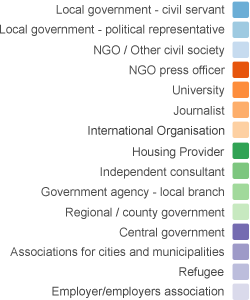
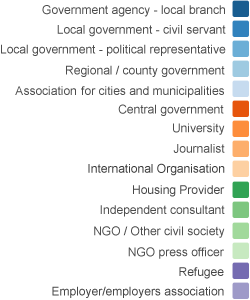
fixed text in pie chart legend and changed piechart colors

Changed region(s): [[0.0, 0.0, 1.0, 1.0], [0.028, 0.69, 0.896, 0.87]]

diff --git a/index.html b/index.html
@@ -757,8 +757,12 @@ var widthpie = 300,
     //radiuspie = Math.min(widthpie, heightpie) / 2;
 	radiuspie = 110;
 
-var colorpie = d3.scale.category20c();
+var colorpie2 = d3.scale.category20c();
 //var colorsun = d3.scale.category20c();
+
+var colorpie = d3.scale.ordinal()
+    .domain([0,1,2,3,4,5,6,7,8,9,10,11,12,13,14,15,16,17,18,19])
+    .range(["#185d90","#3182bd", "#6baed6", "#9ecae1", "#c6dbef", "#e6550d", "#fd8d3c", "#fdae6b", "#fdd0a2", "#31a354", "#74c476", "#a1d99b", "#c7e9c0", "#756bb1", "#9e9ac8", "#bcbddc", "#dadaeb", "#636363", "#969696", "#bdbdbd", "#d9d9d9"]);
 
 var piepie = d3.layout.pie()
     .value(function(d) {return d[0]; })
@@ -785,7 +789,7 @@ var svgpie = d3.select("#pie2div").append("svg")
   var pathpie = svgpie.datum(datapie).selectAll("path")
       .data(piepie)
     .enter().append("path")
-      .attr("fill", function(d, i) { return colorpie(i); })
+      .attr("fill", function(d, i) {return colorpie(i); })
       .attr("d", arcpie)
       .each(function(d) {this._current = d; }); // store the initial angles
 
